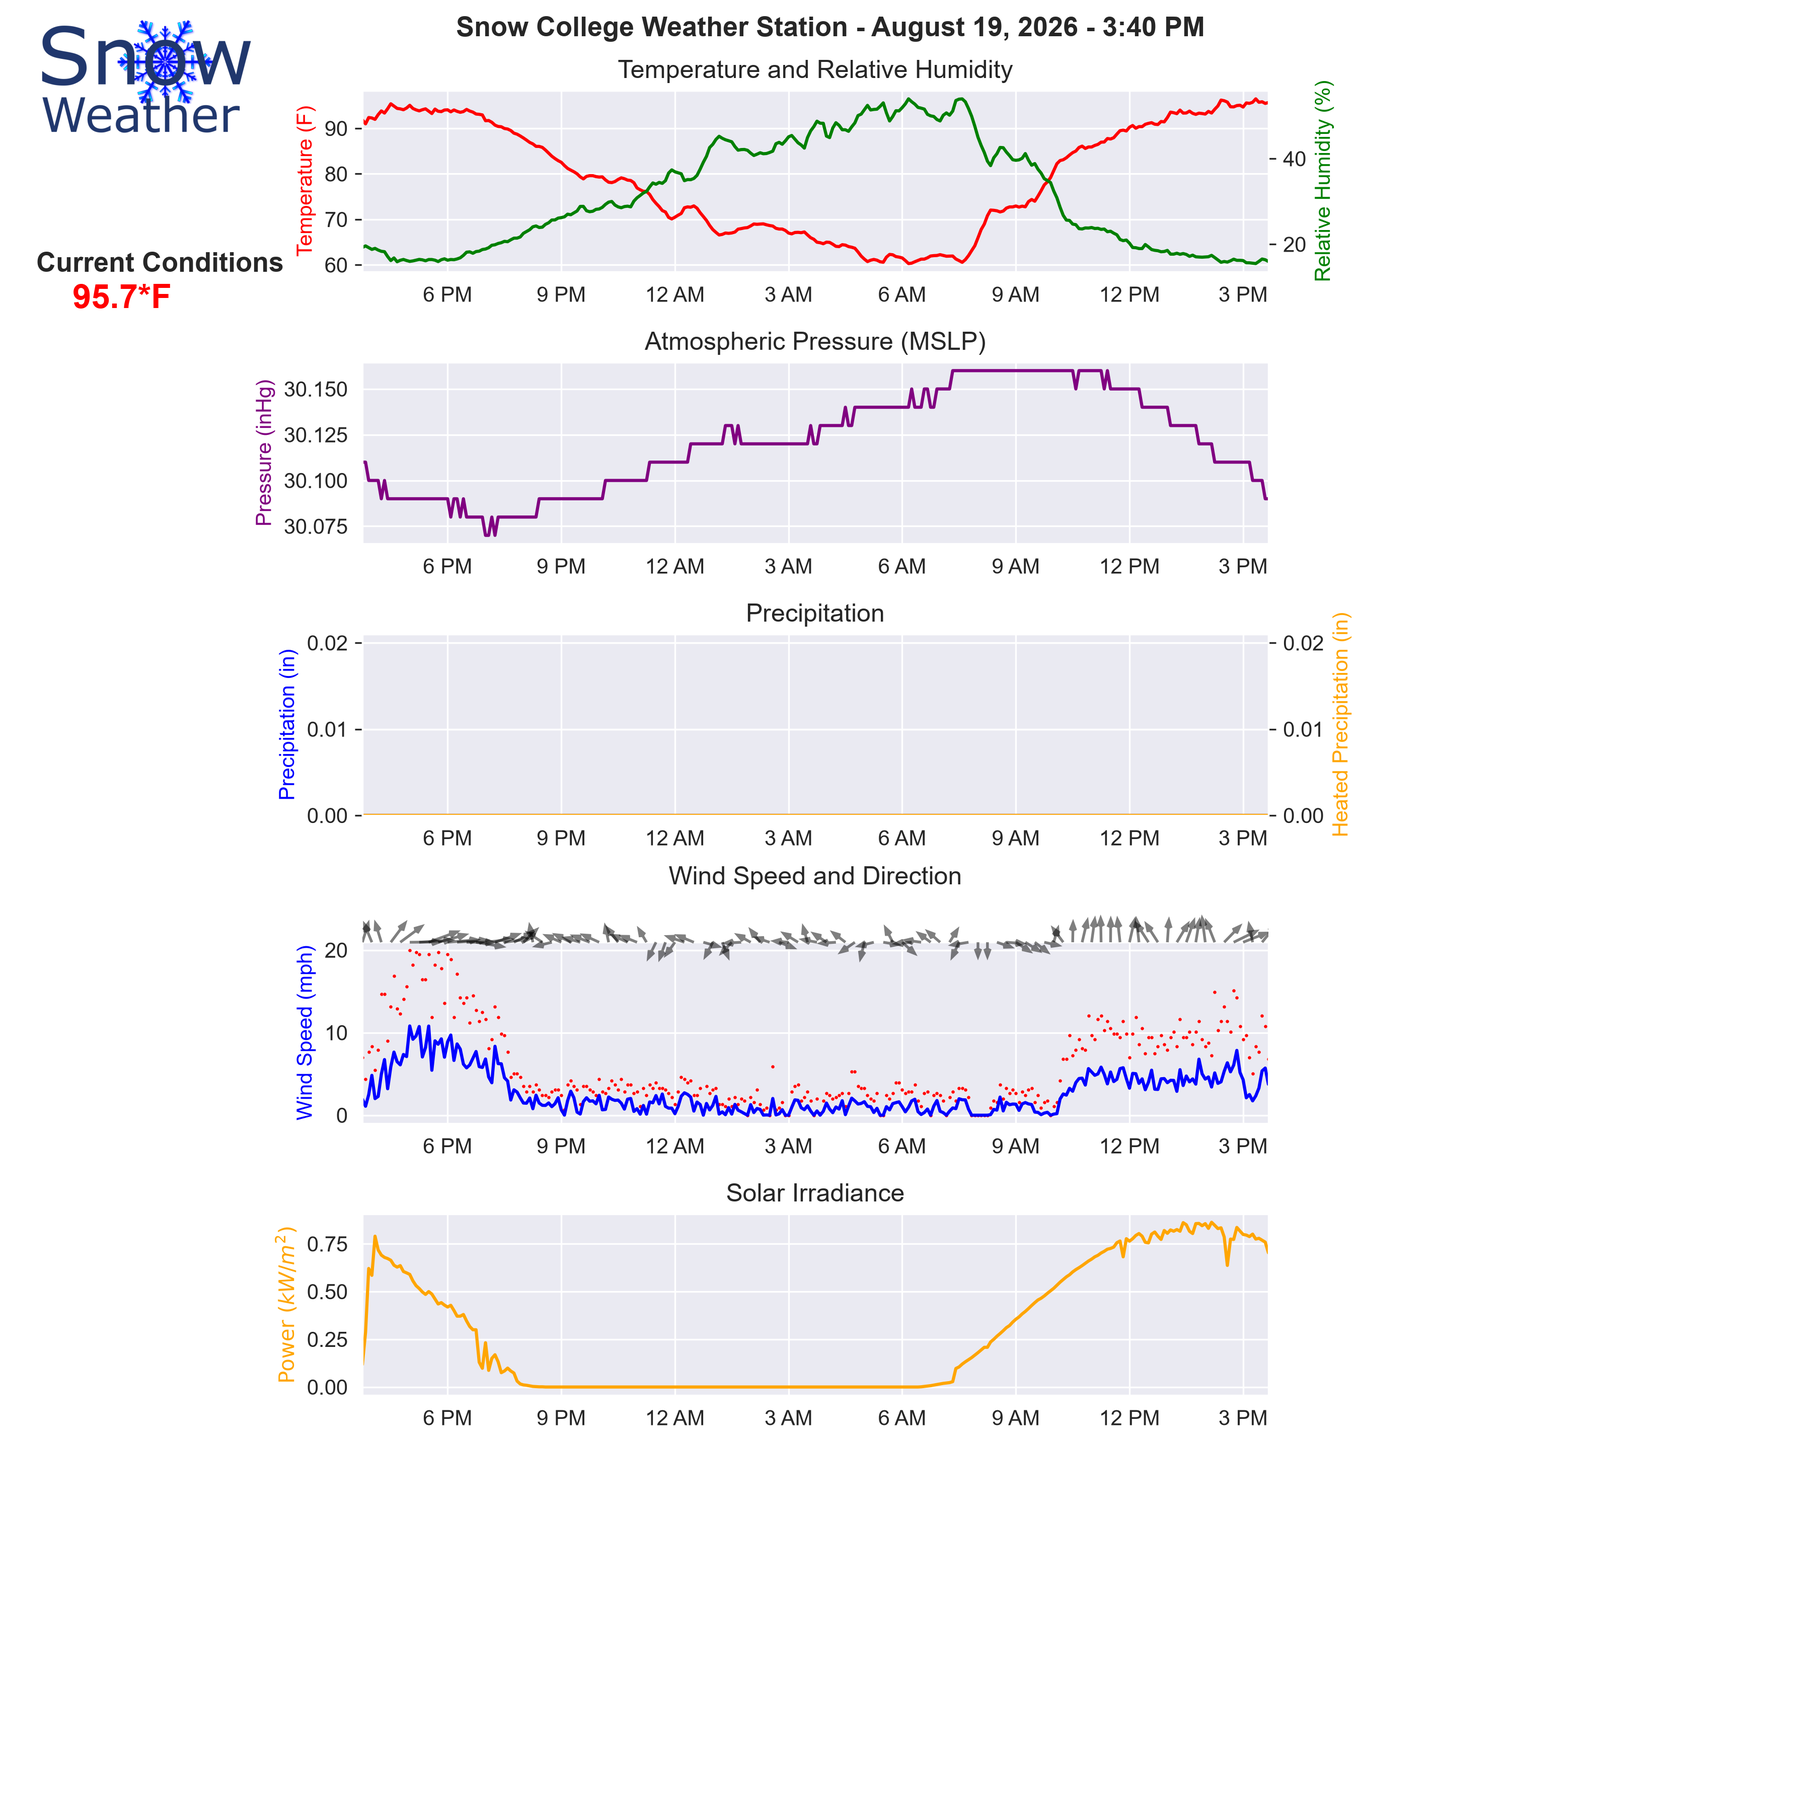
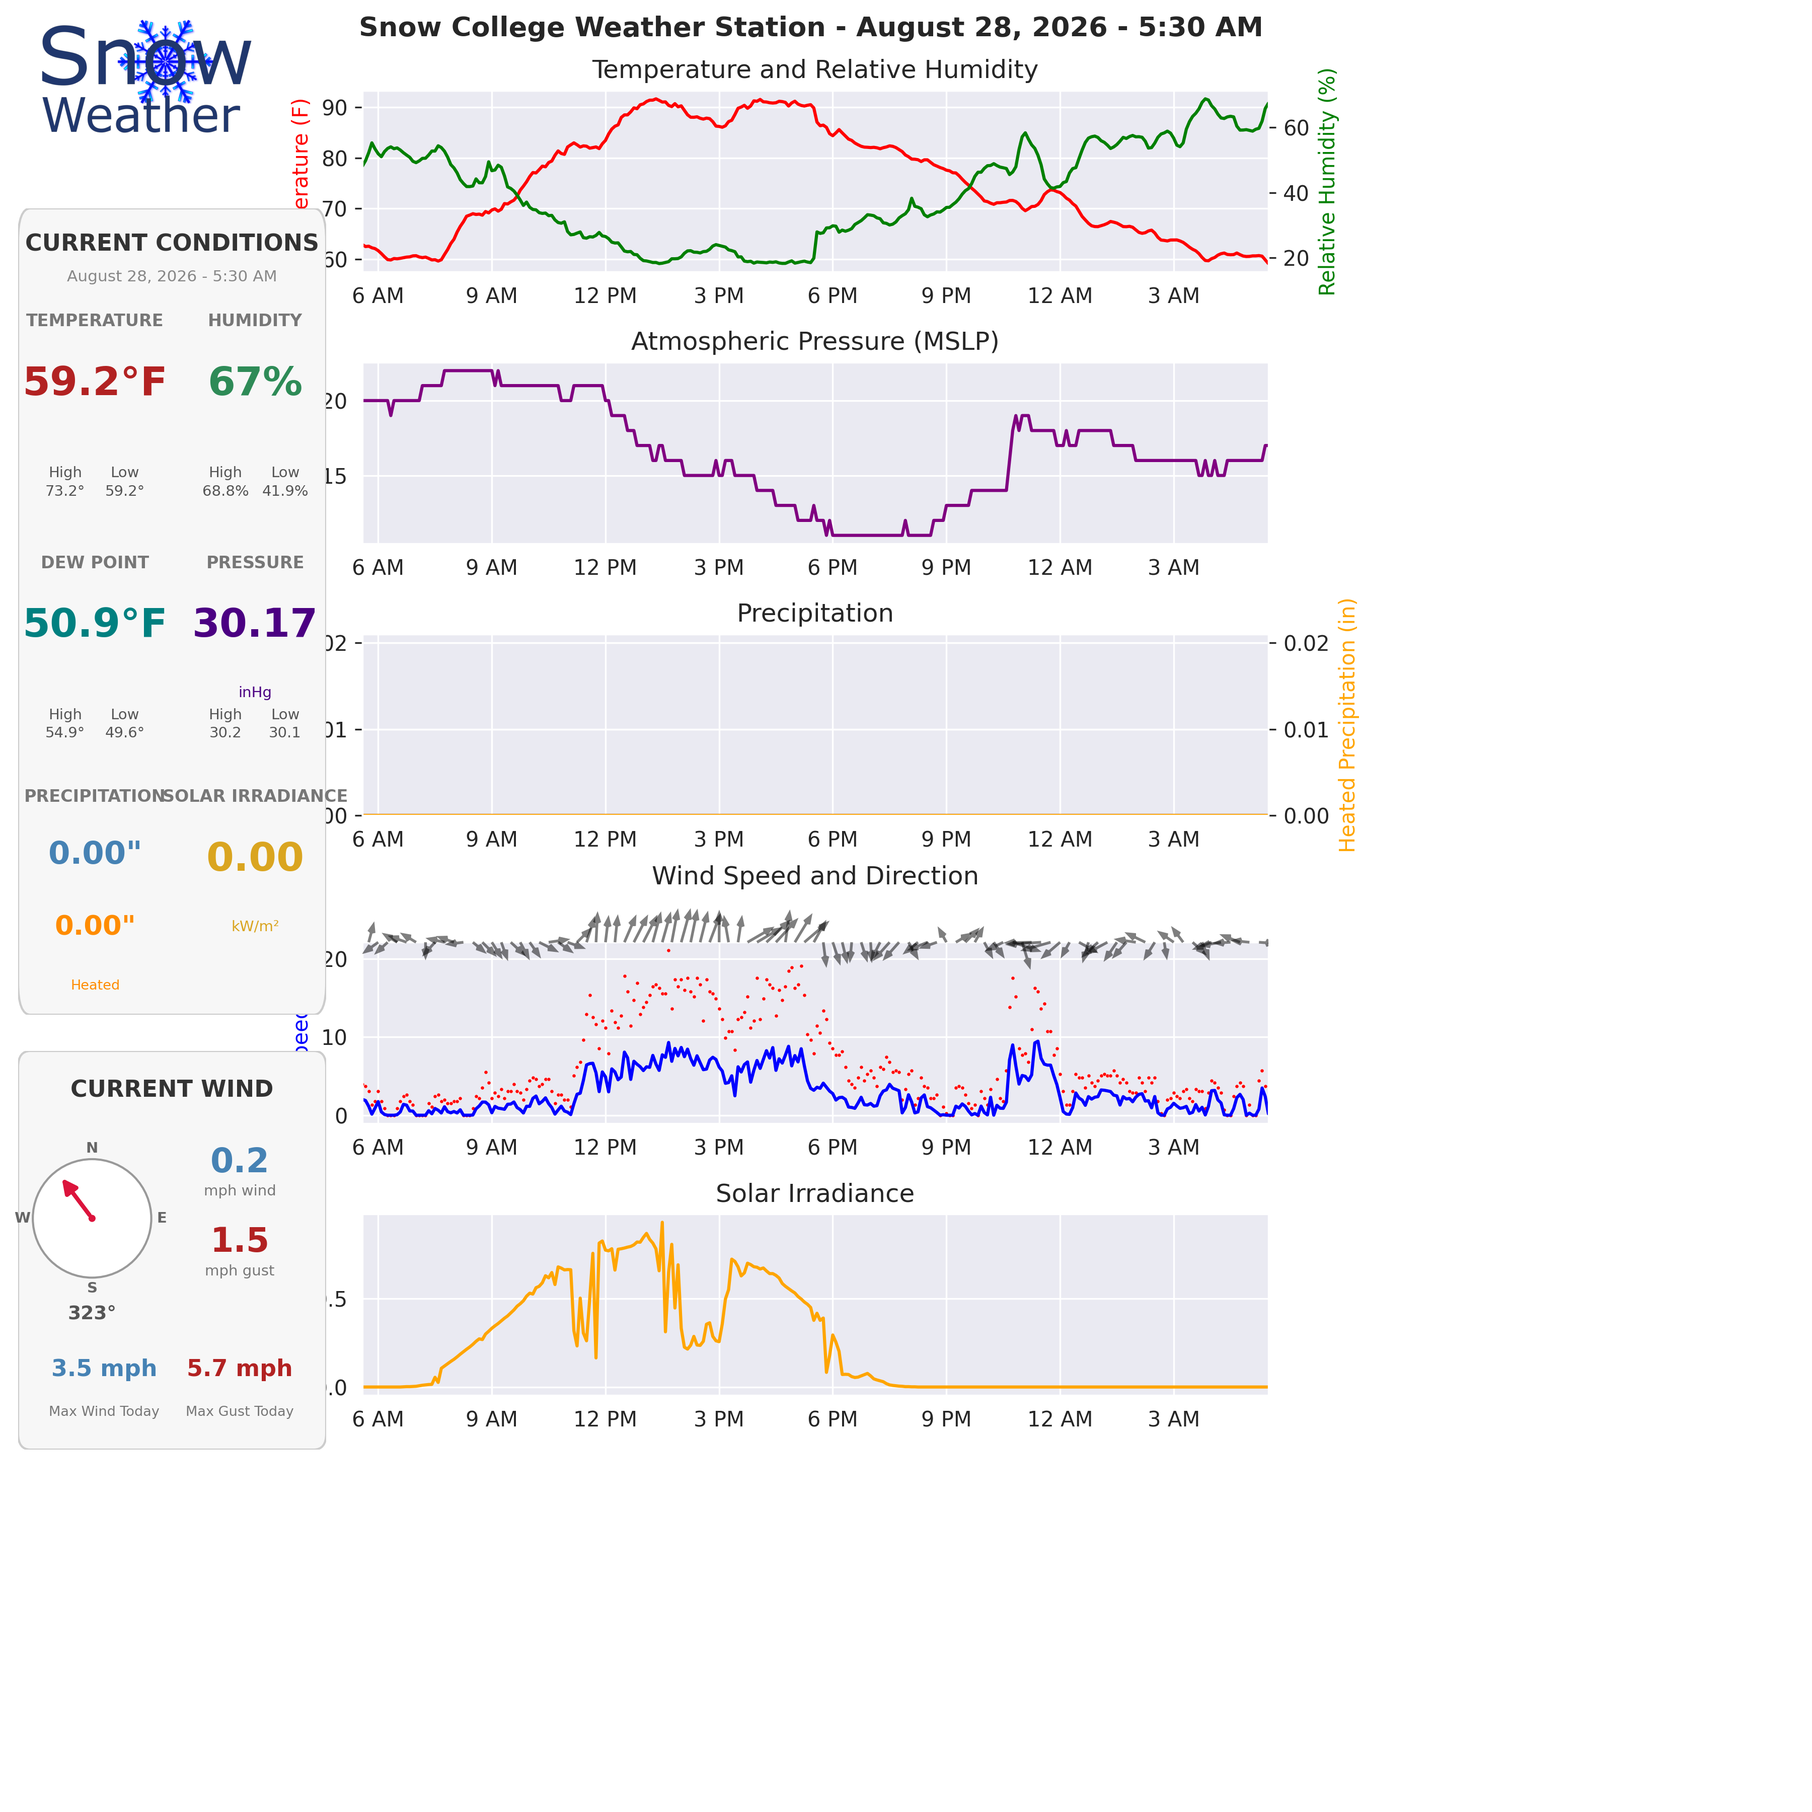
Aug 28 work on the Wx Image

diff --git a/WxImage.py b/WxImage.py
@@ -28,9 +28,9 @@ time_fmt = f'{hour_flag} %p'
 
 ###   Load the data   ###
 # wx_daily = pd.read_csv('https://raw.githubusercontent.com/drolsonmi/weather/refs/heads/main/data/Snow%20Weather_Daily.dat', header=1)
-# wx_5min = pd.read_csv('https://raw.githubusercontent.com/drolsonmi/weather/refs/heads/main/data/Snow%20Weather_FiveMin.dat', header=1)
+wx_5min = pd.read_csv('https://raw.githubusercontent.com/drolsonmi/weather/refs/heads/main/data/Snow%20Weather_FiveMin.dat', header=1)
 # wx_5min = pd.read_csv('C:\Campbellsci\LoggerNet\Snow Weather_FiveMin.dat')
-wx_5min = pd.read_csv(r'C:\Users\GramSC\Documents\weather\data\Snow Weather_FiveMin.dat', header=1)
+# wx_5min = pd.read_csv(r'C:\Users\GramSC\Documents\weather\data\Snow Weather_FiveMin.dat', header=1)
 # wx_5min = pd.read_csv('./data/Snow Weather_FiveMin.dat')
 
 ###   Change TIMESTAMP to datetime format   ###
@@ -225,46 +225,309 @@ ax_solar.set_ylabel(r'$\text{Power (}kW/m^2\text{)}$', color='orange')
 ax_solar.set_title('Solar Irradiance', fontsize=12)
 
 ###   Current Values   ###
-fig.text(0.02, 0.88,
-         f"Current Conditions",
-         ha='left',
-         fontsize=13,
-         fontweight='bold')
 
-# Current T
-fig.text(0.04, 0.86,
-         f"{wx.tail(1)['AirTF_Avg'].values[0]:0.1f}*F",
-         fontsize=16,
-         fontweight='bold',
-         color='red')
 
-# Max T
-high = wx_5min[wx_5min['Date'] == pd.Timestamp.today().strftime("%Y-%m-%d")]['AirTF_Avg'].max()
-fig.text(0.03, 0.84,
-         f"Today's High: {high:0.1f}*F")
 
-# Min T
-low = wx_5min[wx_5min['Date'] == pd.Timestamp.today().strftime("%Y-%m-%d")]['AirTF_Avg'].min()
-fig.text(0.03, 0.82,
-         f"Today's Low: {low:0.1f}*F")
 
-# RH
-fig.text(0.04, 0.79,
-         f"{wx.tail(1)['RH_Avg'].values[0]:0.1f}%",
-         fontsize=16,
-         fontweight='bold',
-         color='green')
-# Max RH
-high = wx_5min[wx_5min['Date'] == pd.Timestamp.today().strftime("%Y-%m-%d")]['RH_Avg'].max()
-fig.text(0.03, 0.77,
-         f"Today's High: {high:0.1f}%")
+###   Current Conditions Panel   ###
+from matplotlib.patches import FancyBboxPatch
 
-# Min RH
-low = wx_5min[wx_5min['Date'] == pd.Timestamp.today().strftime("%Y-%m-%d")]['RH_Avg'].min()
-fig.text(0.03, 0.75,
-         f"Today's Low: {low:0.1f}%")
+# Panel sits in the left margin, below the logo — taller now for 3 rows
+ax_panel = fig.add_axes((0.01, 0.44, 0.17, 0.445))
+ax_panel.axis('off')
+ax_panel.set_xlim(0, 1)
+ax_panel.set_ylim(0, 1)
+
+# Rounded background card
+ax_panel.add_patch(FancyBboxPatch(
+    (0.02, 0.02), 0.96, 0.96,
+    boxstyle="round,pad=0.02,rounding_size=0.04",
+    linewidth=1, edgecolor='#cccccc', facecolor='#f7f7f7',
+    transform=ax_panel.transAxes, zorder=0
+))
+
+# Header
+ax_panel.text(0.5, 0.955, "CURRENT CONDITIONS", ha='center', va='center',
+              fontsize=11, fontweight='bold', color='#333333',
+              transform=ax_panel.transAxes)
+ax_panel.text(0.5, 0.915, title_timestamp, ha='center', va='center',
+              fontsize=7.5, color='#888888', transform=ax_panel.transAxes)
+
+def stat_card(ax, x, y, w, h, label, value, color,
+              high=None, low=None, unit='', unit_below=None):
+    """Draw one label / big-value / high-low stat block in axes-fraction coords."""
+    ax.text(x + w/2, y + h - 0.03, label, ha='center', va='top',
+            fontsize=8, fontweight='bold', color='#777777', transform=ax.transAxes)
+    ax.text(x + w/2, y + h*0.58, value, ha='center', va='center',
+            fontsize=19, fontweight='bold', color=color, transform=ax.transAxes)
+    if unit_below:
+        ax.text(x + w/2, y + h*0.58 - 0.075, unit_below, ha='center', va='top',
+                fontsize=7, color=color, transform=ax.transAxes)
+    if high is not None and low is not None:
+        ax.text(x + w*0.28, y + 0.02, f"High\n{high:0.1f}{unit}",
+                ha='center', va='bottom', fontsize=7, color='#555555',
+                transform=ax.transAxes, linespacing=1.4)
+        ax.text(x + w*0.72, y + 0.02, f"Low\n{low:0.1f}{unit}",
+                ha='center', va='bottom', fontsize=7, color='#555555',
+                transform=ax.transAxes, linespacing=1.4)
+
+def dual_mini_card(ax, x, y, w, h, label, sub1, sub2):
+    """
+    A card holding two side-by-side mini-stats (used for precip / heated precip).
+    sub1, sub2 are dicts: {'label':..., 'value':..., 'color':...}
+    """
+    ax.text(x + w/2, y + h - 0.03, label, ha='center', va='top',
+            fontsize=8, fontweight='bold', color='#777777', transform=ax.transAxes)
+    for i, sub in enumerate((sub1, sub2)):
+        cx = x + w * (0.27 if i == 0 else 0.73)
+        ax.text(cx, y + h*0.56, sub['value'], ha='center', va='center',
+                fontsize=13, fontweight='bold', color=sub['color'], transform=ax.transAxes)
+        ax.text(cx, y + h*0.56 - 0.075, sub['label'], ha='center', va='top',
+                fontsize=6.5, color=sub['color'], transform=ax.transAxes)
+
+def precip_stack_card(ax, x, y, w, h, label, rain_value, heated_value):
+    """Row 3 left cell: total precip on top (no label), heated precip below it."""
+    ax.text(x + w/2, y + h - 0.03, label, ha='center', va='top',
+            fontsize=8, fontweight='bold', color='#777777', transform=ax.transAxes)
+    # Regular precip total (no sub-label)
+    ax.text(x + w/2, y + h*0.60, rain_value, ha='center', va='center',
+            fontsize=15, fontweight='bold', color='steelblue', transform=ax.transAxes)
+    # Heated precip total, with label, stacked below it
+    ax.text(x + w/2, y + h*0.28, heated_value, ha='center', va='center',
+            fontsize=13, fontweight='bold', color='darkorange', transform=ax.transAxes)
+    ax.text(x + w/2, y + h*0.28 - 0.065, "Heated", ha='center', va='top',
+            fontsize=6.5, color='darkorange', transform=ax.transAxes)
+
+
+# Pull latest reading and today's totals/min/max in one place
+today_mask = wx_5min['Date'] == pd.Timestamp.today().strftime("%Y-%m-%d")
+latest = wx.tail(1)
+
+stats = [
+    dict(label="TEMPERATURE", col='AirTF_Avg', color='firebrick',
+         value=lambda v: f"{v:0.1f}\u00b0F", unit='\u00b0', unit_below=None),
+    dict(label="HUMIDITY",    col='RH_Avg',    color='seagreen',
+         value=lambda v: f"{v:0.0f}%",         unit='%', unit_below=None),
+    dict(label="DEW POINT",   col='TdC_Avg',   color='teal',
+         value=lambda v: f"{v:0.1f}\u00b0F",   unit='\u00b0', unit_below=None),
+    dict(label="PRESSURE",    col='BP_inHg',   color='indigo',
+         value=lambda v: f"{v:0.2f}",          unit='', unit_below='inHg'),
+]
+
+# Grid geometry
+col_w  = 0.44
+gap_x  = 0.08
+x_left  = 0.03
+x_right = x_left + col_w + gap_x
+
+row_h = 0.28
+y_row1 = 0.62
+y_row2 = 0.32
+y_row3 = 0.03
+
+positions_rows12 = [(x_left, y_row1), (x_right, y_row1),
+                     (x_left, y_row2), (x_right, y_row2)]
+
+for (x, y), s in zip(positions_rows12, stats):
+    now_val = latest[s['col']].values[0]
+    hi = wx_5min.loc[today_mask, s['col']].max()
+    lo = wx_5min.loc[today_mask, s['col']].min()
+    stat_card(ax_panel, x, y, col_w, row_h,
+              s['label'], s['value'](now_val), s['color'],
+              high=hi, low=lo, unit=s['unit'], unit_below=s['unit_below'])
+
+# # Row 3, left: daily precip totals (rain + heated)
+# rain_total = wx_5min.loc[today_mask, 'Rain_Tot'].sum()
+# heated_total = wx_5min.loc[today_mask, 'HeatedPrecip_Tot'].sum()
+# dual_mini_card(
+#     ax_panel, x_left, y_row3, col_w, row_h,
+#     "PRECIPITATION (TODAY)",
+#     sub1={'label': '',   'value': f"{rain_total:0.2f}\"",   'color': 'steelblue'},
+#     sub2={'label': 'Heated', 'value': f"{heated_total:0.2f}\"", 'color': 'darkorange'},
+# )   
+# Row 3, left: daily precip totals (rain on top, heated below)
+rain_total = wx_5min.loc[today_mask, 'Rain_Tot'].sum()
+heated_total = wx_5min.loc[today_mask, 'HeatedPrecip_Tot'].sum()
+precip_stack_card(
+    ax_panel, x_left, y_row3, col_w, row_h,
+    "PRECIPITATION",
+    rain_value=f"{rain_total:0.2f}\"",
+    heated_value=f"{heated_total:0.2f}\"",
+)
+
+# Row 3, right: current solar irradiance
+# solar_now = latest['SlrkW'].values[0]
+# stat_card(ax_panel, x_right, y_row3, col_w, row_h,
+#           "SOLAR IRRADIANCE", f"{solar_now:0.2f}", 'goldenrod',
+#           unit_below='kW/m\u00b2')
+
+
+
+
+
+
+# fig.text(0.02, 0.88,
+#          f"Current Conditions",
+#          ha='left',
+#          fontsize=13,
+#          fontweight='bold')
+
+# # Current T
+# fig.text(0.04, 0.86,
+#          f"{wx.tail(1)['AirTF_Avg'].values[0]:0.1f}*F",
+#          fontsize=16,
+#          fontweight='bold',
+#          color='red')
+
+# # Max T
+# high = wx_5min[wx_5min['Date'] == pd.Timestamp.today().strftime("%Y-%m-%d")]['AirTF_Avg'].max()
+# fig.text(0.03, 0.84,
+#          f"Today's High: {high:0.1f}*F")
+
+# # Min T
+# low = wx_5min[wx_5min['Date'] == pd.Timestamp.today().strftime("%Y-%m-%d")]['AirTF_Avg'].min()
+# fig.text(0.03, 0.82,
+#          f"Today's Low: {low:0.1f}*F")
+
+# # RH
+# fig.text(0.04, 0.79,
+#          f"{wx.tail(1)['RH_Avg'].values[0]:0.1f}%",
+#          fontsize=16,
+#          fontweight='bold',
+#          color='green')
+# # Max RH
+# high = wx_5min[wx_5min['Date'] == pd.Timestamp.today().strftime("%Y-%m-%d")]['RH_Avg'].max()
+# fig.text(0.03, 0.77,
+#          f"Today's High: {high:0.1f}%")
+
+# # Min RH
+# low = wx_5min[wx_5min['Date'] == pd.Timestamp.today().strftime("%Y-%m-%d")]['RH_Avg'].min()
+# fig.text(0.03, 0.75,
+#          f"Today's Low: {low:0.1f}%")
 
 ###   Current Wind Conditions   ###
+
+
+
+
+
+###   Current Wind Panel   ###
+from matplotlib.patches import FancyBboxPatch, Circle
+
+# Panel geometry (kept as variables so alignment math stays readable)
+PANEL_X0, PANEL_Y0, PANEL_W, PANEL_H = 0.01, 0.20, 0.17, 0.22
+
+ax_windpanel = fig.add_axes((PANEL_X0, PANEL_Y0, PANEL_W, PANEL_H))
+ax_windpanel.axis('off')
+ax_windpanel.set_xlim(0, 1)
+ax_windpanel.set_ylim(0, 1)
+
+# Rounded background card
+ax_windpanel.add_patch(FancyBboxPatch(
+    (0.02, 0.02), 0.96, 0.96,
+    boxstyle="round,pad=0.02,rounding_size=0.04",
+    linewidth=1, edgecolor='#cccccc', facecolor='#f7f7f7',
+    transform=ax_windpanel.transAxes, zorder=0
+))
+
+# Header
+ax_windpanel.text(0.5, 0.90, "CURRENT WIND", ha='center', va='center',
+                   fontsize=11, fontweight='bold', color='#333333',
+                   transform=ax_windpanel.transAxes)
+
+# --- Layout anchors (in panel-fraction coords, 0-1 within ax_windpanel) ---
+row1_center = 0.58   # vertical center shared by compass AND speed/gust stack
+row2_center = 0.15   # vertical center of the max wind/gust row
+
+# --- Compass rose: top-left, its own square axes for a true circle ---
+compass_cx_frac = 0.24   # panel-fraction x-center
+compass_size_fig = 0.085  # figure-fraction diameter (fig is square, so this stays circular)
+
+compass_cx_fig = PANEL_X0 + PANEL_W * compass_cx_frac
+compass_cy_fig = PANEL_Y0 + PANEL_H * row1_center
+
+ax_compass = fig.add_axes((
+    compass_cx_fig - compass_size_fig/2,
+    compass_cy_fig - compass_size_fig/2,
+    compass_size_fig, compass_size_fig
+))
+ax_compass.set_aspect('equal')
+ax_compass.axis('off')
+ax_compass.set_xlim(-1.3, 1.3)
+ax_compass.set_ylim(-1.3, 1.3)
+
+# Outer circle
+ax_compass.add_patch(Circle((0, 0), 1.0, facecolor='white',
+                             edgecolor='#999999', linewidth=1, zorder=1))
+
+# Cardinal direction labels
+for ang, txt in [(0, 'N'), (90, 'E'), (180, 'S'), (270, 'W')]:
+    rad = np.radians(ang)
+    ax_compass.text(1.18*np.sin(rad), 1.18*np.cos(rad), txt,
+                     ha='center', va='center', fontsize=7,
+                     fontweight='bold', color='#666666')
+
+# Wind direction needle (points toward the direction the wind is coming FROM)
+wind_dir_now = latest['WindDir'].values[0]
+dir_rad = np.radians(wind_dir_now)
+needle_x = np.sin(dir_rad)
+needle_y = np.cos(dir_rad)
+
+ax_compass.annotate('', xy=(needle_x*0.92, needle_y*0.92), xytext=(0, 0),
+                     arrowprops=dict(arrowstyle='-|>', color='crimson',
+                                     linewidth=2, mutation_scale=14),
+                     zorder=3)
+ax_compass.add_patch(Circle((0, 0), 0.06, facecolor='crimson',
+                             edgecolor='none', zorder=4))
+
+# Heading readout just below the compass
+ax_windpanel.text(compass_cx_frac, row1_center - 0.24, f"{wind_dir_now:0.0f}\u00b0",
+                   ha='center', va='center', fontsize=9,
+                   fontweight='bold', color='#555555',
+                   transform=ax_windpanel.transAxes)
+
+# --- Wind speed / gust, stacked vertically, top-right, centered on row1_center ---
+wind_speed_now = latest['AveWindSp'].values[0]
+wind_gust_now = latest['WindGust'].values[0]
+stack_x = 0.72
+
+ax_windpanel.text(stack_x, row1_center + 0.14, f"{wind_speed_now:0.1f}",
+                   ha='center', va='center', fontsize=16, fontweight='bold',
+                   color='steelblue', transform=ax_windpanel.transAxes)
+ax_windpanel.text(stack_x, row1_center + 0.14 - 0.055, "mph wind",
+                   ha='center', va='top', fontsize=7, color='#777777',
+                   transform=ax_windpanel.transAxes)
+
+ax_windpanel.text(stack_x, row1_center - 0.06, f"{wind_gust_now:0.1f}",
+                   ha='center', va='center', fontsize=16, fontweight='bold',
+                   color='firebrick', transform=ax_windpanel.transAxes)
+ax_windpanel.text(stack_x, row1_center - 0.06 - 0.055, "mph gust",
+                   ha='center', va='top', fontsize=7, color='#777777',
+                   transform=ax_windpanel.transAxes)
+
+# --- Bottom row: max wind (left) and max gust (right) ---
+max_wind_today = wx_5min.loc[today_mask, 'AveWindSp'].max()
+max_gust_today = wx_5min.loc[today_mask, 'WindGust'].max()
+
+ax_windpanel.text(0.28, row2_center + 0.05, f"{max_wind_today:0.1f} mph",
+                   ha='center', va='center', fontsize=11, fontweight='bold',
+                   color='steelblue', transform=ax_windpanel.transAxes)
+ax_windpanel.text(0.28, row2_center - 0.04, "Max Wind Today",
+                   ha='center', va='top', fontsize=6.5, color='#777777',
+                   transform=ax_windpanel.transAxes)
+
+ax_windpanel.text(0.72, row2_center + 0.05, f"{max_gust_today:0.1f} mph",
+                   ha='center', va='center', fontsize=11, fontweight='bold',
+                   color='firebrick', transform=ax_windpanel.transAxes)
+ax_windpanel.text(0.72, row2_center - 0.04, "Max Gust Today",
+                   ha='center', va='top', fontsize=6.5, color='#777777',
+                   transform=ax_windpanel.transAxes)
+
+
+
+
+
+
 
 
 ###   Records for last 3 days   ###
